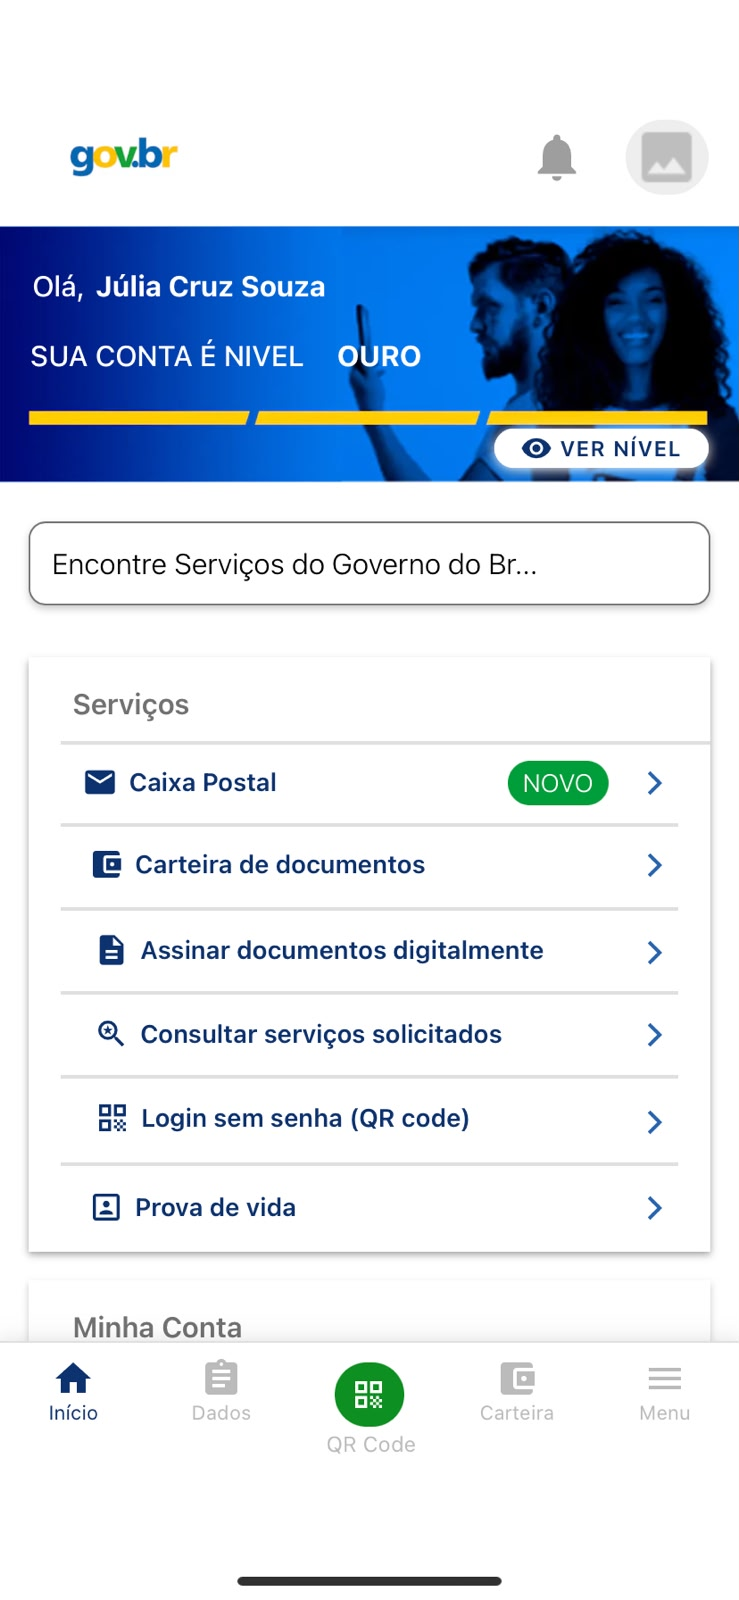
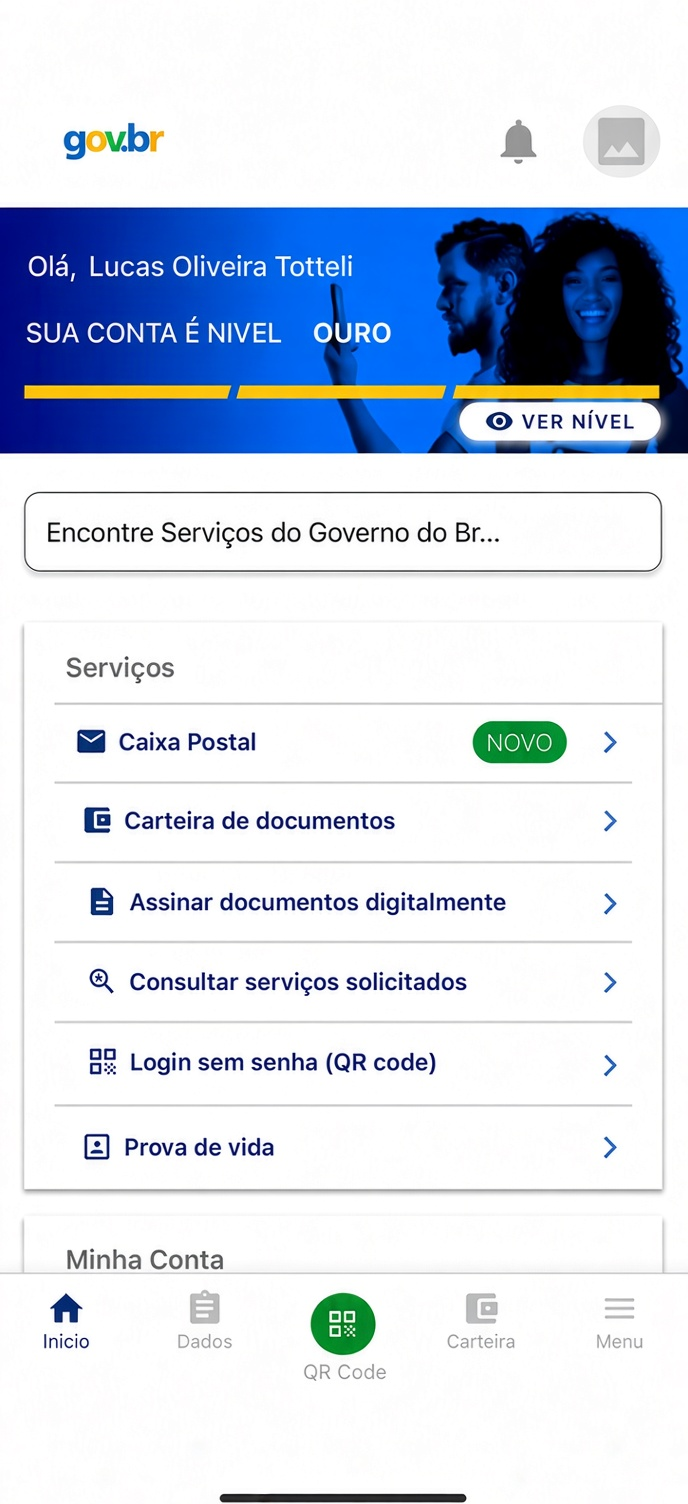
Add files via upload

diff --git a/index.html b/index.html
@@ -102,9 +102,8 @@
       }
     }
 
-    /* Aviso escolar */
-
-    .simulacao{
+    /* 
+    
       position:absolute;
       bottom:35px;
 
